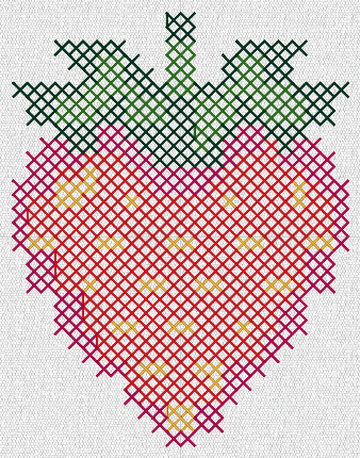
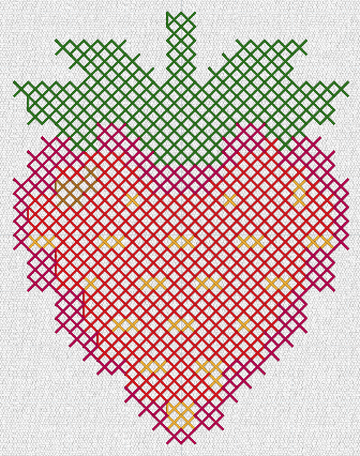
Kit: regenerate the PE-compatible Cross Stitch strawberry for #447's colour rule
sew_kit --check names only image-tools/S-cross-stitch-strawberry-pe-compatible.pes (pixel art,
the same palette code). Regenerated with its preview: 5 threads as before, 3,809 -> 3,637
stitches; sew_check passes.

diff --git a/examples/sew/README.md b/examples/sew/README.md
@@ -579,13 +579,13 @@ Threads, in sewing order: 206 Harvest Gold, 079 Salmon Pink, 509 Leaf Green, 800
 
 #### Cross Stitch, PE-DESIGN-compatible mode
 
-[`image-tools/S-cross-stitch-strawberry-pe-compatible.pes`](image-tools/S-cross-stitch-strawberry-pe-compatible.pes) · 100 × 100 mm hoop · 60 × 77.5 mm · 3,809 stitches · 157 trims · about 12.8 min
+[`image-tools/S-cross-stitch-strawberry-pe-compatible.pes`](image-tools/S-cross-stitch-strawberry-pe-compatible.pes) · 100 × 100 mm hoop · 60 × 77.5 mm · 3,637 stitches · 121 trims · about 10.7 min
 
 `g07-pixel-strawberry.png` through Cross Stitch at its defaults in PE-DESIGN-compatible mode, fitted to the 100 × 100 mm hoop. Sew both modes of the same image to compare them on fabric.
 
 <img src="../images/g07-pixel-strawberry.png" height="180" alt="Source image"> <img src="previews/S-cross-stitch-strawberry-pe-compatible.png" height="180" alt="Realistic view of image-tools/S-cross-stitch-strawberry-pe-compatible.pes">
 
-Threads, in sewing order: 208 Orange, 515 Moss Green, 800 Red, 107 Dark Fuchsia, 808 Deep Green.
+Threads, in sewing order: 208 Orange, 323 Light Brown, 800 Red, 515 Moss Green, 107 Dark Fuchsia.
 
 #### Design Center, OpenStitch mode
 
